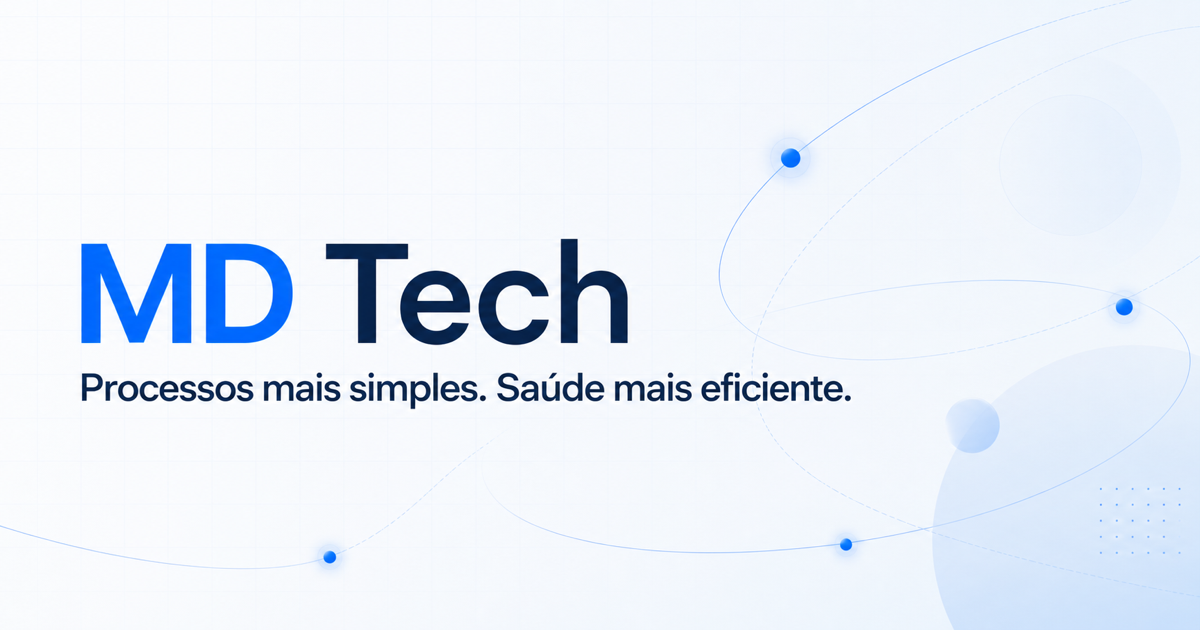
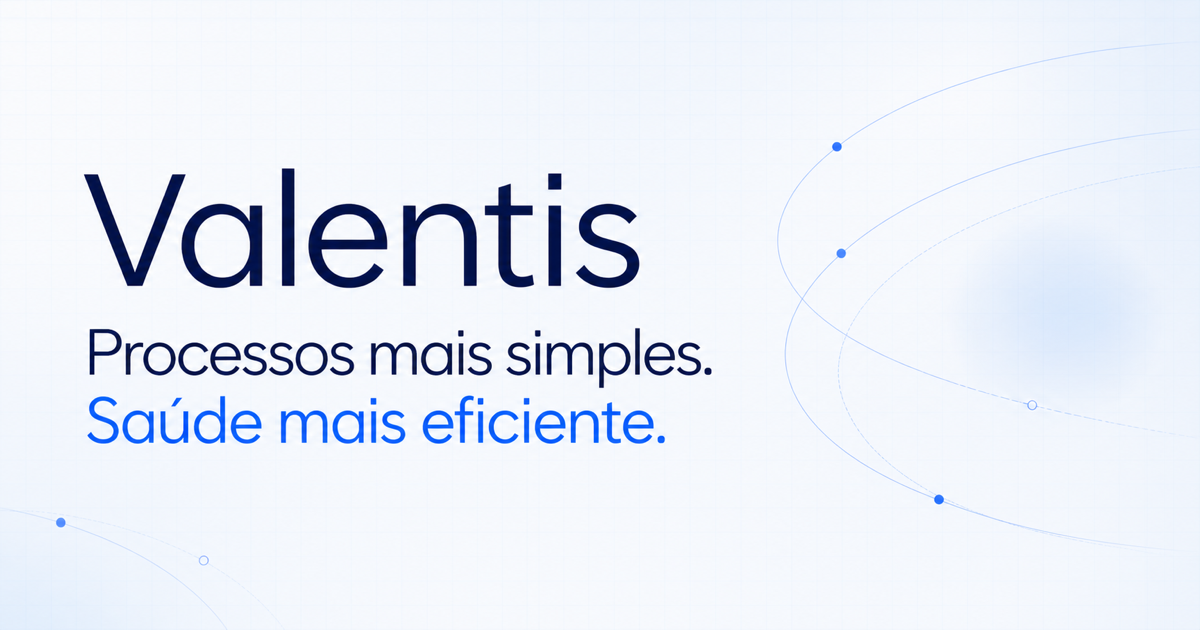
Rename brand to Valentis

diff --git a/index.html b/index.html
@@ -4,18 +4,18 @@
     <meta charset="UTF-8" />
     <meta name="viewport" content="width=device-width, initial-scale=1.0" />
     <meta name="theme-color" content="#f7faff" />
-    <meta name="description" content="A MD Tech simplifica e automatiza processos administrativos na área da saúde através da tecnologia e inteligência artificial." />
-    <meta property="og:title" content="MD Tech — Tecnologia para a saúde" />
+    <meta name="description" content="A Valentis simplifica e automatiza processos administrativos na área da saúde através da tecnologia e inteligência artificial." />
+    <meta property="og:title" content="Valentis — Tecnologia para a saúde" />
     <meta property="og:description" content="Processos mais simples. Saúde mais eficiente." />
     <meta property="og:type" content="website" />
     <meta property="og:url" content="https://pedro-pais-moreira.github.io/md-tech-site/" />
     <meta property="og:image" content="https://pedro-pais-moreira.github.io/md-tech-site/og.png" />
     <meta name="twitter:card" content="summary_large_image" />
-    <meta name="twitter:title" content="MD Tech — Tecnologia para a saúde" />
+    <meta name="twitter:title" content="Valentis — Tecnologia para a saúde" />
     <meta name="twitter:description" content="Processos mais simples. Saúde mais eficiente." />
     <meta name="twitter:image" content="https://pedro-pais-moreira.github.io/md-tech-site/og.png" />
     <link rel="canonical" href="https://pedro-pais-moreira.github.io/md-tech-site/" />
-    <title>MD Tech — Tecnologia para a saúde</title>
+    <title>Valentis — Tecnologia para a saúde</title>
   </head>
   <body>
     <div id="root"></div>

diff --git a/src/styles.css b/src/styles.css
@@ -121,35 +121,12 @@ a { color: inherit; }
 .brand {
   display: inline-flex;
   align-items: center;
-  gap: 13px;
   text-decoration: none;
   cursor: default;
   user-select: none;
 }
 
-.brand-mark {
-  position: relative;
-  width: 34px;
-  height: 34px;
-  display: block;
-  overflow: hidden;
-  border-radius: 10px;
-  background: var(--blue);
-  box-shadow: 0 8px 24px rgba(23,104,229,.18);
-}
-
-.brand-mark::before, .brand-mark::after, .brand-mark i {
-  content: '';
-  position: absolute;
-  background: rgba(255,255,255,.96);
-}
-
-.brand-mark::before { width: 3px; height: 16px; left: 9px; top: 9px; border-radius: 2px; }
-.brand-mark::after { width: 3px; height: 16px; right: 9px; top: 9px; border-radius: 2px; }
-.brand-mark i:first-child { width: 3px; height: 12px; left: 13px; top: 10px; border-radius: 2px; transform: rotate(-35deg); transform-origin: top; }
-.brand-mark i:last-child { width: 3px; height: 12px; right: 13px; top: 10px; border-radius: 2px; transform: rotate(35deg); transform-origin: top; }
-
-.brand-name { font: 700 20px/1 'Manrope', sans-serif; letter-spacing: -.6px; }
+.brand-name { font: 700 23px/1 'Manrope', sans-serif; letter-spacing: -.75px; }
 .hero {
   position: relative;
   min-height: calc(100svh - 118px);

diff --git a/src/App.tsx b/src/App.tsx
@@ -86,12 +86,8 @@ function App() {
       <div className="grain" aria-hidden="true" />
 
       <header className="site-header">
-        <div className="brand" aria-label="MD Tech">
-          <span className="brand-mark" aria-hidden="true">
-            <i />
-            <i />
-          </span>
-          <span className="brand-name">MD Tech</span>
+        <div className="brand" aria-label="Valentis">
+          <span className="brand-name">Valentis</span>
         </div>
       </header>
 

diff --git a/README.md b/README.md
@@ -1,6 +1,6 @@
-# MD Tech
+# Valentis
 
-Landing page institucional da MD Tech.
+Landing page institucional da Valentis.
 
 ## Desenvolvimento local
 
